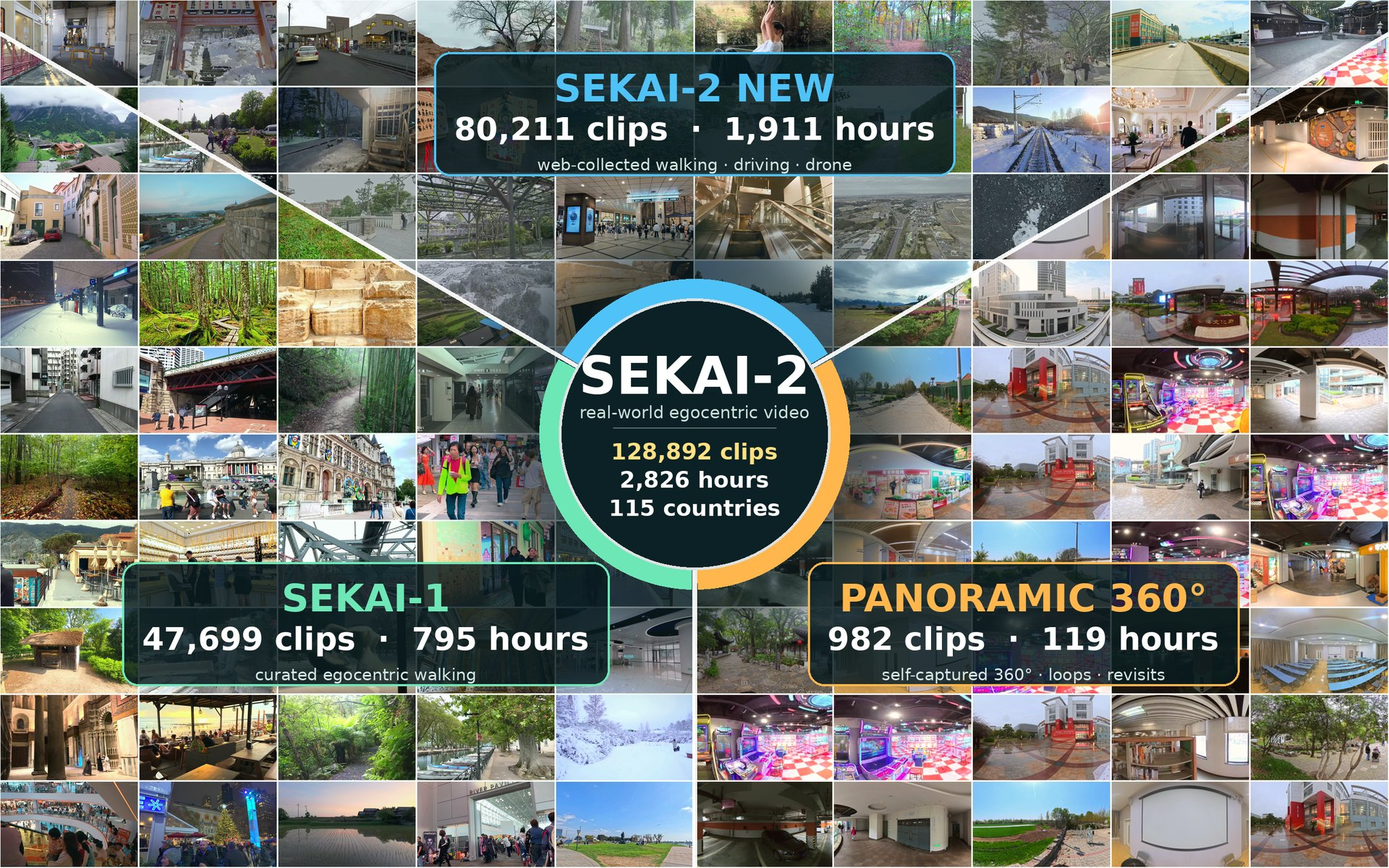
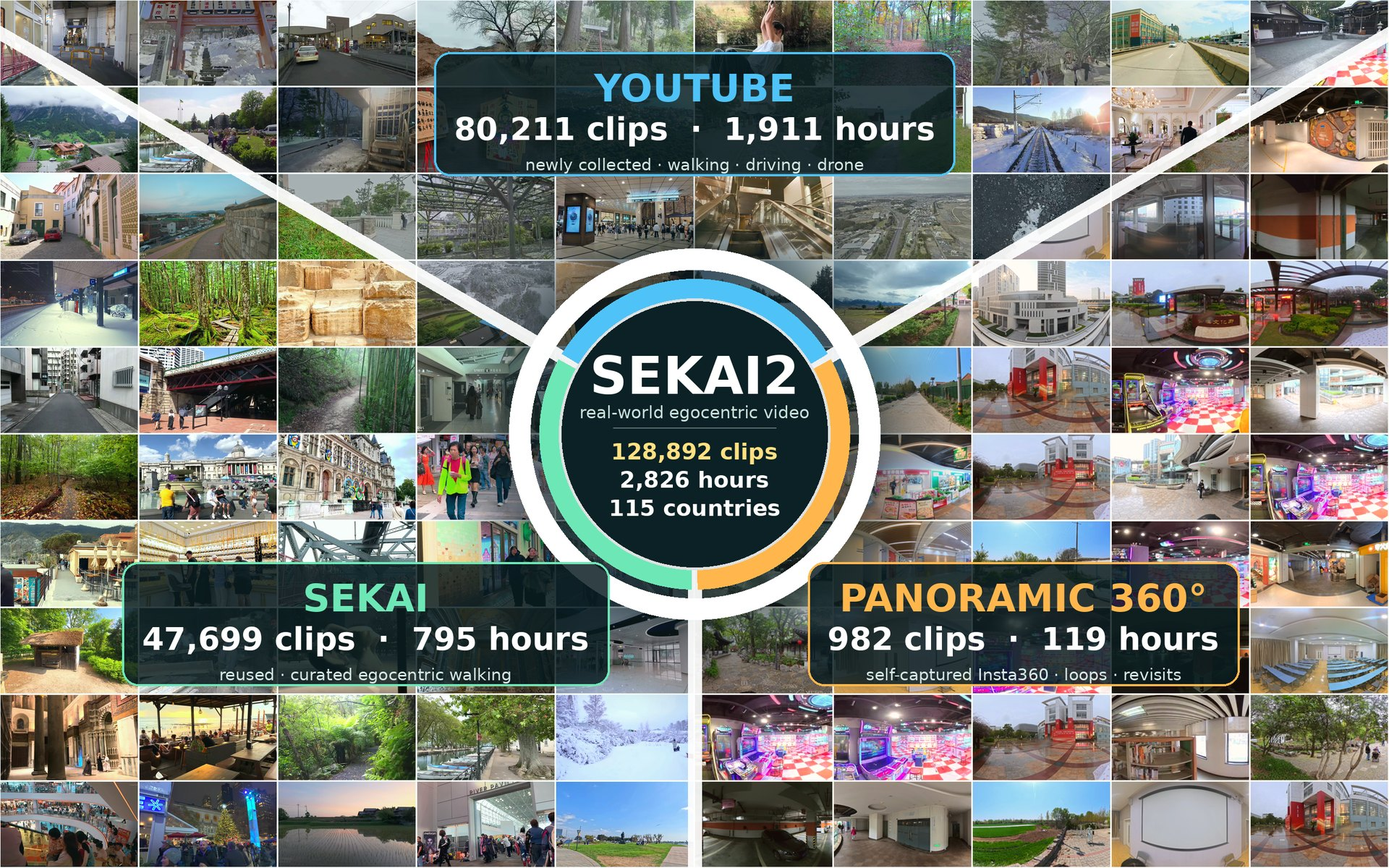
Teaser wheel: breathing room around the ring, wider seams, provenance-based labels
- Add a 40 px empty annulus between the ring and the surrounding frames, and widen the
  three wedge seams from 9 px to 26 px, so the regions and the ring stop feeling crowded.
- Centre wordmark is SEKAI2 (not SEKAI-2).
- Rename the wedges by PROVENANCE instead of internal batch id, which reads as a set —
  a prior dataset, a fresh web crawl, our own rig:
    SEKAI           reused · curated egocentric walking
    YOUTUBE         newly collected · walking · driving · drone   (was "SEKAI-2 NEW")
    PANORAMIC 360°  self-captured Insta360 · loops · revisits
  Section copy and image alt text follow the same wording.

diff --git a/index.html b/index.html
@@ -8,8 +8,8 @@
   <link rel="preconnect" href="https://fonts.googleapis.com">
   <link rel="preconnect" href="https://fonts.gstatic.com" crossorigin>
   <link href="https://fonts.googleapis.com/css2?family=DM+Sans:wght@400;500;600;700&family=Manrope:wght@500;600;700;800&display=swap" rel="stylesheet">
-  <link rel="stylesheet" href="styles.css?v=202608041352">
-  <link rel="stylesheet" href="trajectory-viewer.css?v=202608041352">
+  <link rel="stylesheet" href="styles.css?v=202608050225">
+  <link rel="stylesheet" href="trajectory-viewer.css?v=202608050225">
 </head>
 <body>
   <nav class="nav" aria-label="Main navigation">
@@ -55,10 +55,10 @@
     <section class="composition section" id="composition">
       <div class="section-heading reveal">
         <div><p class="kicker">What the dataset is made of</p><h2>Three sources,<br>one continuous world.</h2></div>
-        <p>Every frame below is real released footage. Each wedge is one source batch, sized by what it contributes to the 128,892 clips and 2,826 hours.</p>
+        <p>Every frame below is real released footage. Each wedge is one source — reused Sekai clips, a fresh YouTube collection, and our own 360° captures — with what it contributes to the 128,892 clips and 2,826 hours.</p>
       </div>
       <a class="composition-figure reveal" href="assets/images/dataset-composition.jpg" target="_blank" rel="noreferrer">
-        <img src="assets/images/dataset-composition.jpg" alt="Sekai2 dataset composition: Sekai-2 New 80,211 clips / 1,911 hours, Sekai-1 47,699 clips / 795 hours, Panoramic 360 982 clips / 119 hours, totalling 128,892 clips and 2,826 hours across 115 countries" loading="lazy">
+        <img src="assets/images/dataset-composition.jpg" alt="Sekai2 dataset composition: newly collected YouTube footage 80,211 clips / 1,911 hours, reused Sekai footage 47,699 clips / 795 hours, self-captured Panoramic 360 982 clips / 119 hours, totalling 128,892 clips and 2,826 hours across 115 countries" loading="lazy">
         <span>Open full size ↗</span>
       </a>
     </section>
@@ -194,9 +194,9 @@
   </dialog>
 
   <footer><a class="brand" href="#top"><span class="brand-mark">S2</span><span>Sekai2</span></a><p>Long-horizon real-world video data for interactive world modeling.</p><span>Project page scaffold · 2026</span></footer>
-  <script src="assets/vendor/three.min.js?v=202608041352"></script>
-  <script src="assets/vendor/OrbitControls.js?v=202608041352"></script>
-  <script src="assets/vendor/pose-viewer.js?v=202608041352"></script>
-  <script src="script.js?v=202608041352"></script>
+  <script src="assets/vendor/three.min.js?v=202608050225"></script>
+  <script src="assets/vendor/OrbitControls.js?v=202608050225"></script>
+  <script src="assets/vendor/pose-viewer.js?v=202608050225"></script>
+  <script src="script.js?v=202608050225"></script>
 </body>
 </html>
